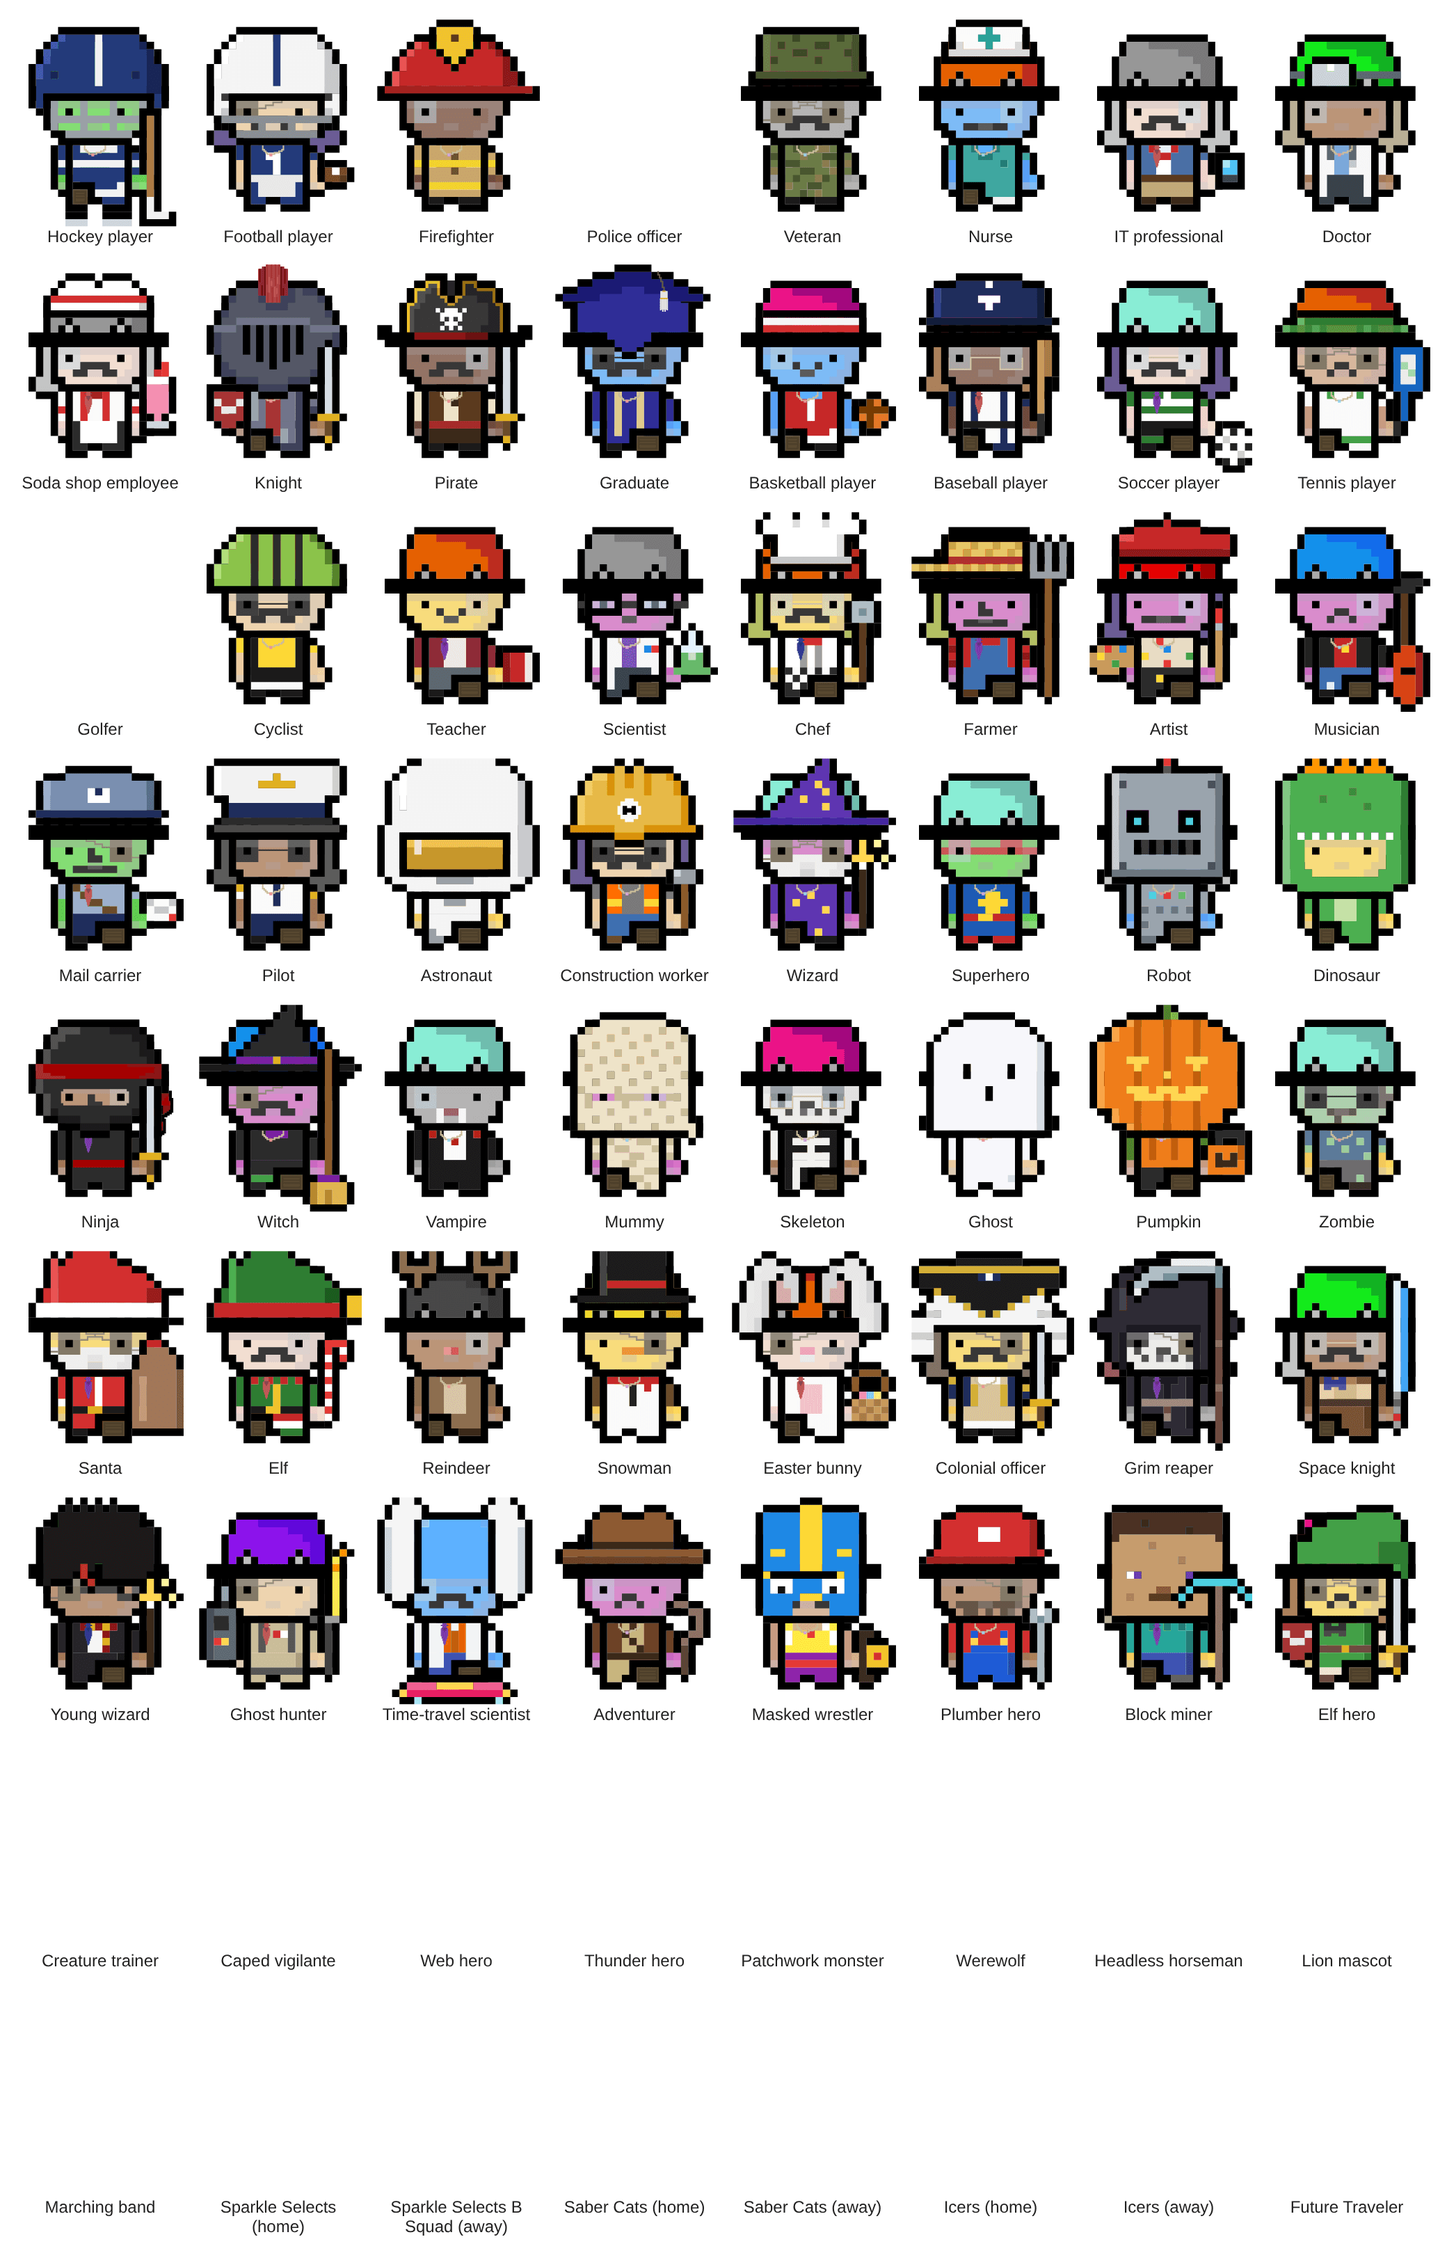
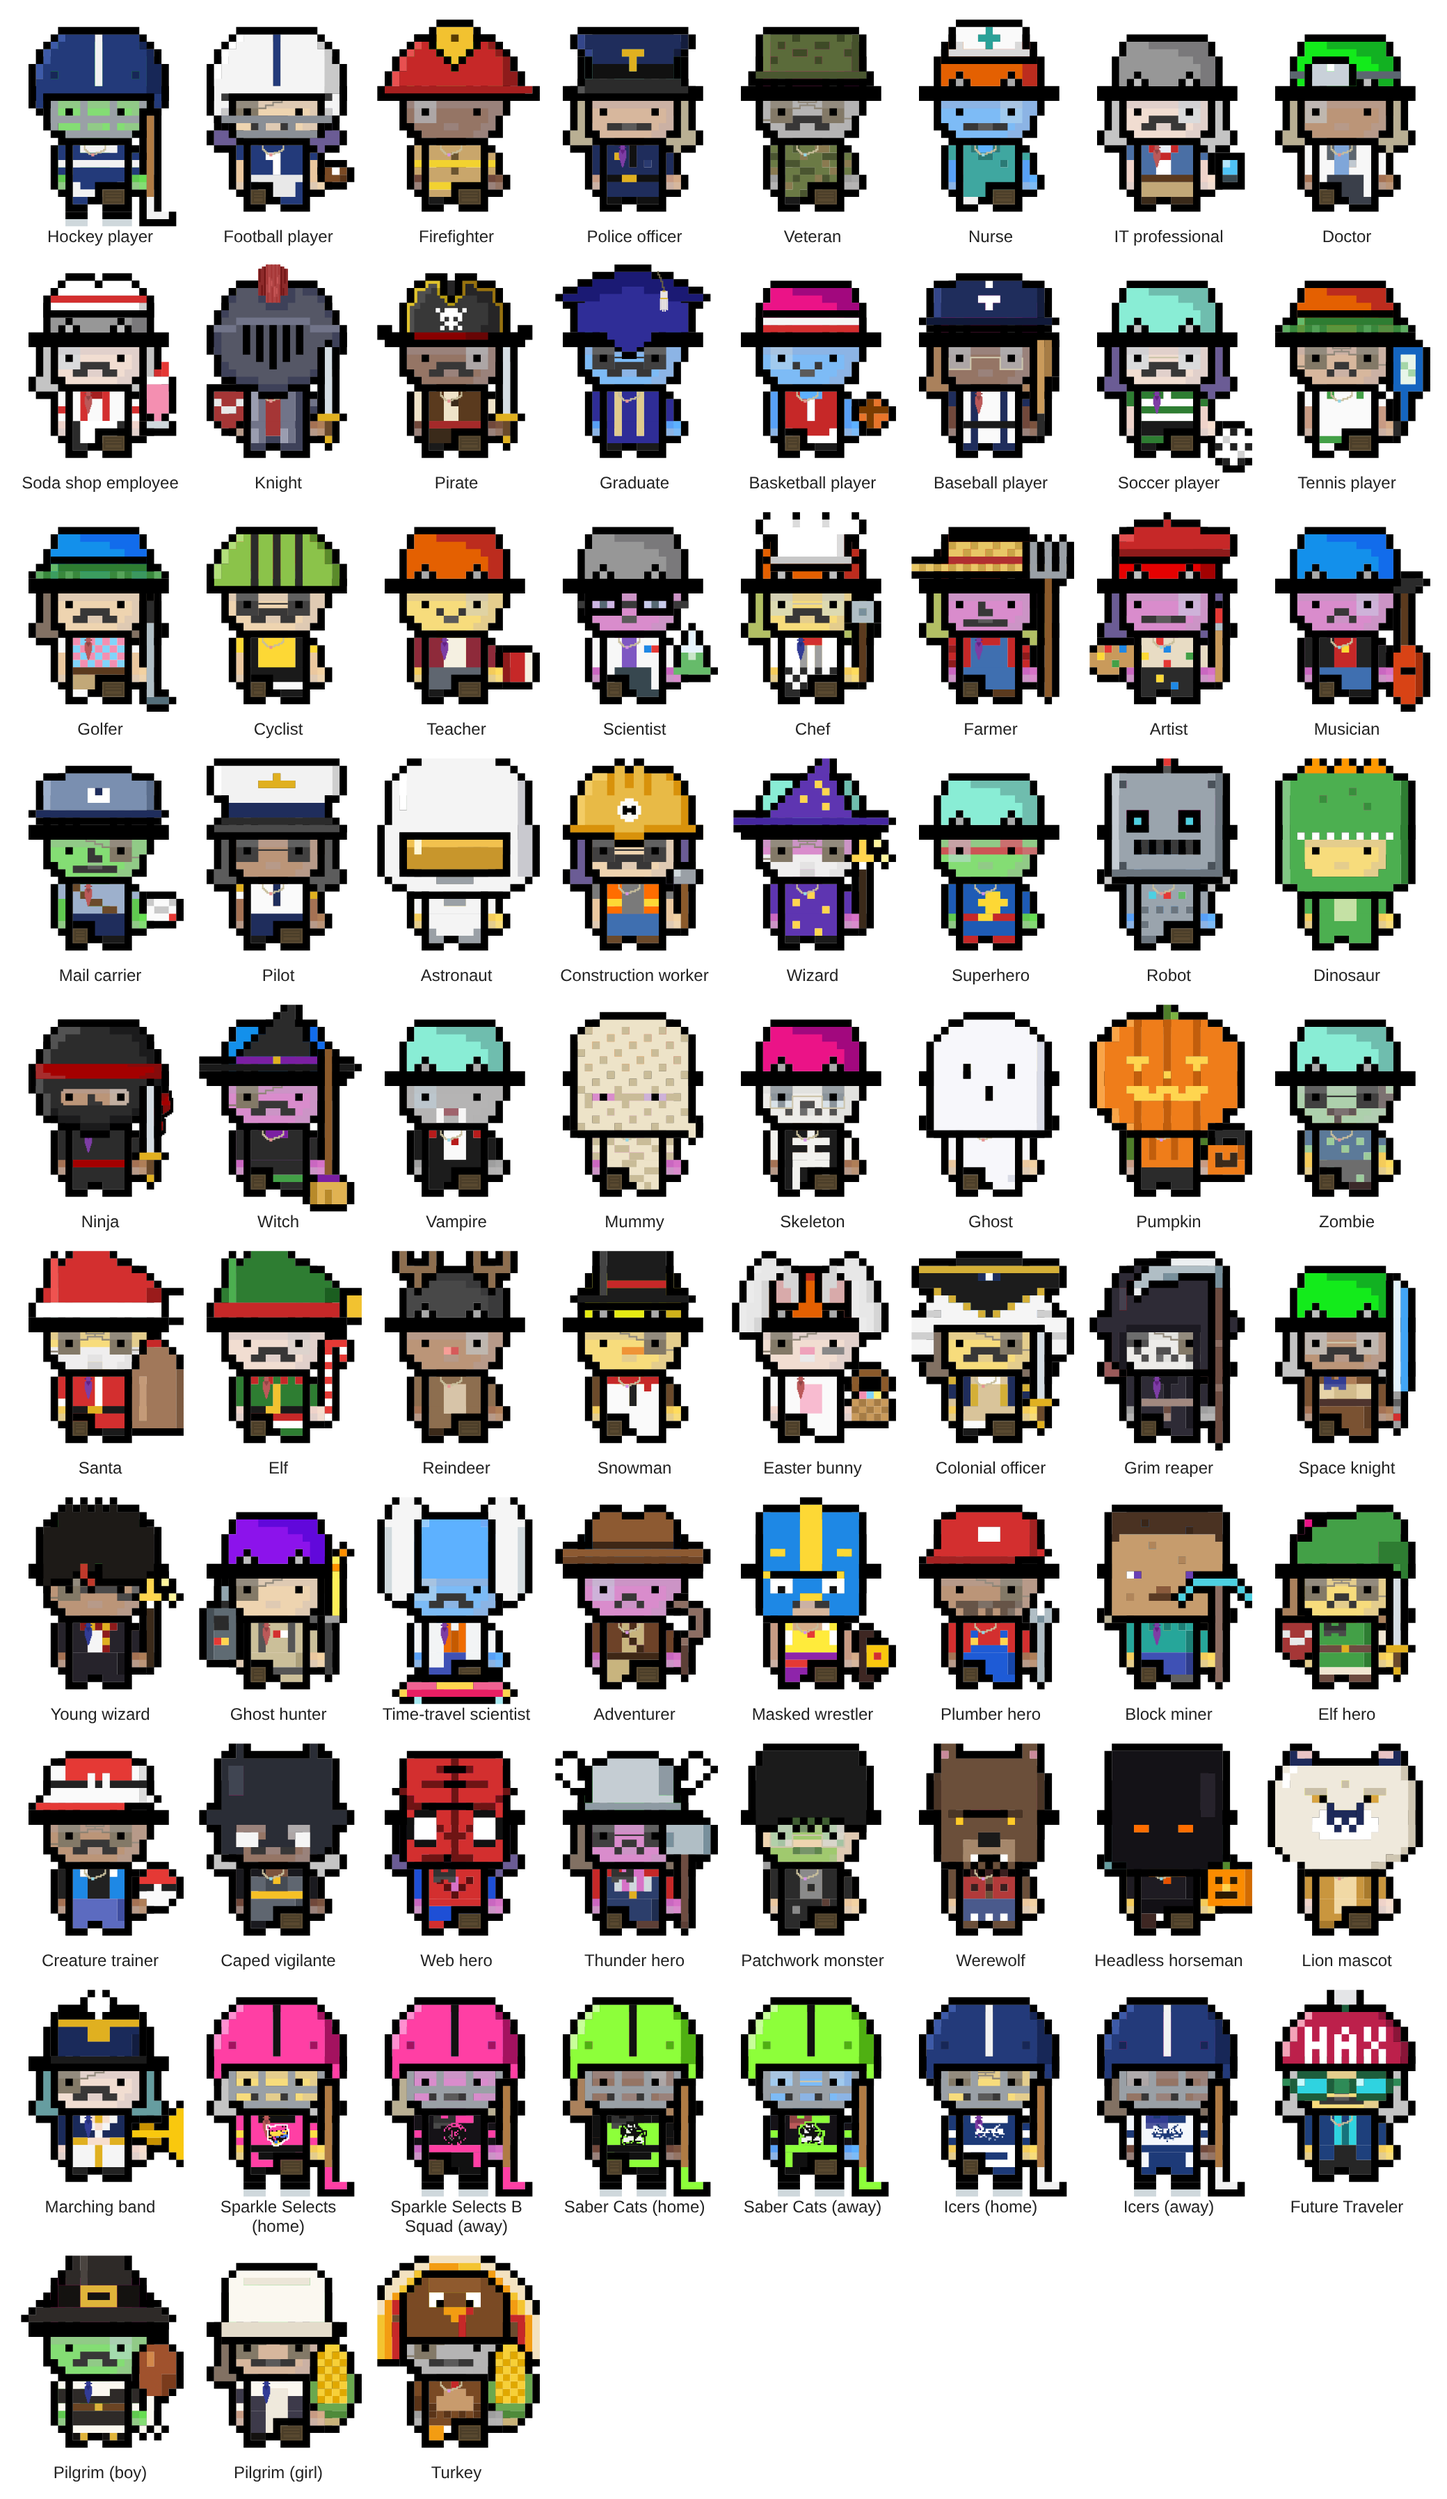
[rpg-character] Thanksgiving characters: pilgrims, turkey, corn and drumstick
Adds Thanksgiving pieces to rpg-character:
- hats: pilgrim (buckled capotain), bonnet (white coif), turkey (hood with
  a tail-feather fan)
- items: corn, drumstick
- presets: pilgrim-boy, pilgrim-girl, turkey, each with its own outfit
- a Thanksgiving season (Nov 15 through the Sunday after Thanksgiving) for
  seasonal mode, with an exported thanksgivingDay(year) helper

New values are appended to the end of each code registry list, so every
existing character code still means the same character. The new hats are
costume hats, left out of hat="random".

Also fixes scripts/roster.mjs, which had fallen behind two element changes:
it now reads option labels from the advanced settings tab as well, and it
waits for the in-view lazy drawing so every character shows in
characters.png.

Claude-Session: https://claude.ai/code/session_01PfFvVQobDmtJvYd62TMWx3

diff --git a/elements/rpg-character/test/rpg-character.test.js b/elements/rpg-character/test/rpg-character.test.js
@@ -35,6 +35,7 @@ import {
   poseList,
   seasonFor,
   easterSunday,
+  thanksgivingDay,
 } from "../rpg-character.js";
 
 /**
@@ -87,9 +88,9 @@ describe("rpg-character", () => {
       );
     });
 
-    it("exports hatList with the 59 non-status hats", () => {
+    it("exports hatList with the 62 non-status hats", () => {
       expect(hatList).to.be.an("array");
-      expect(hatList.length).to.equal(59);
+      expect(hatList.length).to.equal(62);
       expect(hatList).to.include("bunny");
       expect(hatList).to.include("cowboy");
       expect(hatList).to.include("party");
@@ -1376,6 +1377,54 @@ describe("rpg-character", () => {
       expect(seasonFor(new Date("2027-01-01T12:00:00")).hat).to.deep.equal([
         "party",
       ]);
+    });
+
+    it("dresses for Thanksgiving through the Sunday after it", () => {
+      expect(thanksgivingDay(2026)).to.deep.equal([11, 26]);
+      expect(thanksgivingDay(2030)).to.deep.equal([11, 28]);
+      expect(seasonFor(new Date("2026-11-14T12:00:00"))).to.be.null;
+      const fall = seasonFor(new Date("2026-11-20T12:00:00"));
+      expect(fall.name).to.equal("thanksgiving");
+      expect(fall.preset).to.deep.equal([
+        "pilgrim-boy",
+        "pilgrim-girl",
+        "turkey",
+      ]);
+      expect(seasonFor(new Date("2026-11-29T23:00:00")).name).to.equal(
+        "thanksgiving",
+      );
+      // 2026's Sunday is Nov 29, so Dec 1 is Christmas again
+      expect(seasonFor(new Date("2026-12-01T12:00:00")).name).to.equal(
+        "christmas",
+      );
+      // 2030's Thanksgiving is Nov 28, so its weekend runs into December
+      expect(seasonFor(new Date("2030-12-01T12:00:00")).name).to.equal(
+        "thanksgiving",
+      );
+      expect(seasonFor(new Date("2030-12-02T12:00:00")).name).to.equal(
+        "christmas",
+      );
+    });
+
+    it("has the Thanksgiving pieces, recallable by code", () => {
+      ["pilgrim", "bonnet", "turkey"].forEach((hat) =>
+        expect(hatList).to.include(hat),
+      );
+      ["corn", "drumstick"].forEach((item) =>
+        expect(itemList).to.include(item),
+      );
+      expect(presets["pilgrim-boy"].hat).to.equal("pilgrim");
+      expect(presets["pilgrim-girl"].hat).to.equal("bonnet");
+      expect(presets.turkey.hat).to.equal("turkey");
+      const code = encodeCharacter({
+        preset: "pilgrim-girl",
+        hat: "turkey",
+        item: "drumstick",
+      });
+      const back = decodeCharacter(code);
+      expect(back.preset).to.equal("pilgrim-girl");
+      expect(back.hat).to.equal("turkey");
+      expect(back.item).to.equal("drumstick");
     });
 
     it("does nothing unless seasonal is on", async () => {

diff --git a/elements/rpg-character/rpg-character.js b/elements/rpg-character/rpg-character.js
@@ -25,8 +25,9 @@ import {
   seasonFor,
   seasonalPick,
   easterSunday,
+  thanksgivingDay,
 } from "./lib/rpg-character-seasons.js";
-export { seasonFor, seasonalPick, easterSunday };
+export { seasonFor, seasonalPick, easterSunday, thanksgivingDay };
 // face expressions drawn over the eyes and mouth
 export const expressionList = Object.keys(expressionArt);
 // arm poses; a raised arm puts down whatever that hand was holding
@@ -94,6 +95,9 @@ export const hatList = [
   "sparkle-selects",
   "saber-cats",
   "future-traveler",
+  "pilgrim",
+  "bonnet",
+  "turkey",
 ];
 // what hat="random" picks from: everyday hats, leaving costume and holiday
 // hats to explicit choices and presets
@@ -120,6 +124,9 @@ const costumeHats = [
   "sparkle-selects",
   "saber-cats",
   "future-traveler",
+  "pilgrim",
+  "bonnet",
+  "turkey",
 ];
 export const randomHatList = hatList.filter((h) => !costumeHats.includes(h));
 // full-head or face masks, drawn between the hair and the hat
@@ -201,6 +208,8 @@ export const itemList = [
   "hockey-stick-pink",
   "hockey-stick-green",
   "sparkle-flag",
+  "corn",
+  "drumstick",
 ];
 // flag items: the pennant carries flag-text; a team flag shows its team
 // letters when no text is set
@@ -339,6 +348,10 @@ export const presets = {
   // the HAX Future Traveler as a character: red HAX helmet with an idea bulb
   // and big goggles, Beaver blue coat over a cyan shirt
   "future-traveler": { hat: "future-traveler" },
+  // Thanksgiving: two pilgrim outfits and a turkey costume
+  "pilgrim-boy": { hat: "pilgrim", item: "drumstick" },
+  "pilgrim-girl": { hat: "bonnet", item: "corn" },
+  turkey: { hat: "turkey", item: "corn" },
 };
 // Special seeds that dress the character in a team kit. The seed still makes
 // the character underneath; this only fills in the preset when none is

diff --git a/elements/rpg-character/lib/rpg-character-seasons.js b/elements/rpg-character/lib/rpg-character-seasons.js
@@ -28,6 +28,16 @@ export function easterSunday(year) {
   return [month, day];
 }
 
+/**
+ * US Thanksgiving for a year: the fourth Thursday of November.
+ * Returns [month (1-12), day].
+ */
+export function thanksgivingDay(year) {
+  const firstWeekday = new Date(year, 10, 1).getDay();
+  const firstThursday = 1 + ((4 - firstWeekday + 7) % 7);
+  return [11, firstThursday + 21];
+}
+
 const DAY = 24 * 60 * 60 * 1000;
 
 /**
@@ -52,6 +62,23 @@ export function seasonFor(date) {
         "pumpkin",
         "zombie",
       ],
+    };
+  }
+  // Nov 15 through the Sunday after Thanksgiving (which can be Dec 1)
+  const thanksgiving = new Date(
+    date.getFullYear(),
+    10,
+    thanksgivingDay(date.getFullYear())[1],
+  );
+  // the last moment of that Sunday
+  const sunday = new Date(thanksgiving.getTime() + 4 * DAY - 1);
+  if (
+    ((month === 11 && day >= 15) || month === 12) &&
+    date.getTime() <= sunday.getTime()
+  ) {
+    return {
+      name: "thanksgiving",
+      preset: ["pilgrim-boy", "pilgrim-girl", "turkey"],
     };
   }
   if (month === 12 && day <= 25) {

diff --git a/elements/rpg-character/lib/rpg-character-code.js b/elements/rpg-character/lib/rpg-character-code.js
@@ -107,6 +107,9 @@ export const codeSlots = [
       "icers",
       "icers-away",
       "future-traveler",
+      "pilgrim-boy",
+      "pilgrim-girl",
+      "turkey",
     ],
   },
   {
@@ -177,6 +180,9 @@ export const codeSlots = [
       "sparkle-selects",
       "saber-cats",
       "future-traveler",
+      "pilgrim",
+      "bonnet",
+      "turkey",
     ],
   },
   {
@@ -266,6 +272,8 @@ export const codeSlots = [
       "hockey-stick-pink",
       "hockey-stick-green",
       "sparkle-flag",
+      "corn",
+      "drumstick",
     ],
   },
   { name: "offhand", values: ["none", "shield", "palette", "proton-pack"] },

diff --git a/elements/rpg-character/README.md b/elements/rpg-character/README.md
@@ -16,7 +16,7 @@ import '@haxtheweb/rpg-character/rpg-character.js';
 
 ## Named characters
 
-There are 72 named character types (`preset`): jobs, sports, holidays, monsters, pop-culture archetypes, hockey team kits and the Future Traveler (`future-traveler`), the HAX World Traveler as a character: red HAX helmet with an idea bulb and big goggles. [`CHARACTERS.md`](./CHARACTERS.md) has the image of all of them and the full list with each one's default pieces and code. `demo/characters.html` shows them live. Regenerate both with `node scripts/roster.mjs` (dev server running) after adding a preset.
+There are 75 named character types (`preset`): jobs, sports, holidays, monsters, pop-culture archetypes, hockey team kits and the Future Traveler (`future-traveler`), the HAX World Traveler as a character: red HAX helmet with an idea bulb and big goggles. [`CHARACTERS.md`](./CHARACTERS.md) has the image of all of them and the full list with each one's default pieces and code. `demo/characters.html` shows them live. Regenerate both with `node scripts/roster.mjs` (dev server running) after adding a preset.
 
 ## How many characters are there?
 
@@ -36,7 +36,7 @@ What each factor means:
 - **2·hats − 1**: hats are counted with and without fire, except that fire with no hat draws the coffee hat, which is already counted.
 - **items·offhands + offhands + 1**: standing still holds both hands' items, a wave drops the right-hand item, and a cheer drops both.
 
-With today's options that is 111 × 10 × 21 × 10 × 10 × 172 × 127 × 12 × 11 × 7 × 2 × 4 × 189 = **71,137,435,324,032,000**, about 71 quadrillion different-looking characters. A seed alone gives 66 million of them. Character codes can spell 297,391,443,148,800,000,000 combinations (about 3.0 × 10²⁰), because a code also records choices that end up hidden, such as hair on base 0.
+With today's options that is 111 × 10 × 21 × 10 × 10 × 175 × 133 × 12 × 11 × 7 × 2 × 4 × 197 = **79,006,013,301,600,000**, about 79 quadrillion different-looking characters. A seed alone gives 66 million of them. Character codes can spell 337,985,572,700,160,000,000 combinations (about 3.4 × 10²⁰), because a code also records choices that end up hidden, such as hair on base 0.
 
 `scripts/roster.mjs` recomputes these numbers from the registry into `CHARACTERS.md`, so they grow as options are added.
 
@@ -77,6 +77,7 @@ Add `seasonal` and the character dresses up on its own, unless a character type 
 | When | Costume |
 |---|---|
 | Oct 15 to 31 | a Halloween preset (witch, vampire, mummy, skeleton, ghost, pumpkin, zombie) |
+| Nov 15 to the Sunday after Thanksgiving | a Thanksgiving preset (pilgrim-boy, pilgrim-girl, turkey) |
 | Dec 1 to 25 | a Christmas preset (santa, elf, reindeer, snowman) |
 | Easter week (computed each year) | easter-bunny |
 | Jul 1 to 4 | colonial |

diff --git a/elements/rpg-character/CHARACTERS.md b/elements/rpg-character/CHARACTERS.md
@@ -1,6 +1,6 @@
 # Named characters
 
-Every character type (`preset`) that ships with `rpg-character`: 72 in all.
+Every character type (`preset`) that ships with `rpg-character`: 75 in all.
 Use one with `<rpg-character preset="..." seed="..."></rpg-character>`. The seed
 still decides skin, face and the other seed traits, and any default piece
 can be swapped by setting that attribute. The code recreates the preset on
@@ -13,10 +13,10 @@ generated by `node scripts/roster.mjs`; don't edit them by hand.
 
 ## How many characters?
 
-- **71,137,435,324,032,000** different-looking characters
-  (head 111 × skin 10 × face 21 × faceItem 10 × accessories 10 × outfit 172 × hat and fire 127 × mask 12 × pet 11 × expression 7 × circle 2 × feet 4 × pose and hands 189).
+- **79,006,013,301,600,000** different-looking characters
+  (head 111 × skin 10 × face 21 × faceItem 10 × accessories 10 × outfit 175 × hat and fire 133 × mask 12 × pet 11 × expression 7 × circle 2 × feet 4 × pose and hands 197).
 - **66,000,000** of those come from a seed alone, before choosing anything.
-- **297,391,443,148,800,000,000** possible character codes. Codes also record
+- **337,985,572,700,160,000,000** possible character codes. Codes also record
   choices that end up hidden, such as hair on base 0.
 
 See "How many characters are there?" in the README for how this is counted.
@@ -97,3 +97,6 @@ See "How many characters are there?" in the README for how this is counted.
 | 70 | Icers (home) | `icers` | hat: Hockey helmet, item: Hockey stick, feet: Skates | `1-0000000000000000001y` |
 | 71 | Icers (away) | `icers-away` | hat: Hockey helmet, item: Hockey stick, feet: Skates | `1-0000000000000000001z` |
 | 72 | Future Traveler | `future-traveler` | hat: Future Traveler (helmet) | `1-00000000000000000020` |
+| 73 | Pilgrim (boy) | `pilgrim-boy` | hat: Pilgrim hat, item: Turkey drumstick | `1-00000000000000000021` |
+| 74 | Pilgrim (girl) | `pilgrim-girl` | hat: Pilgrim bonnet, item: Ear of corn | `1-00000000000000000022` |
+| 75 | Turkey | `turkey` | hat: Turkey hood, item: Ear of corn | `1-00000000000000000023` |
